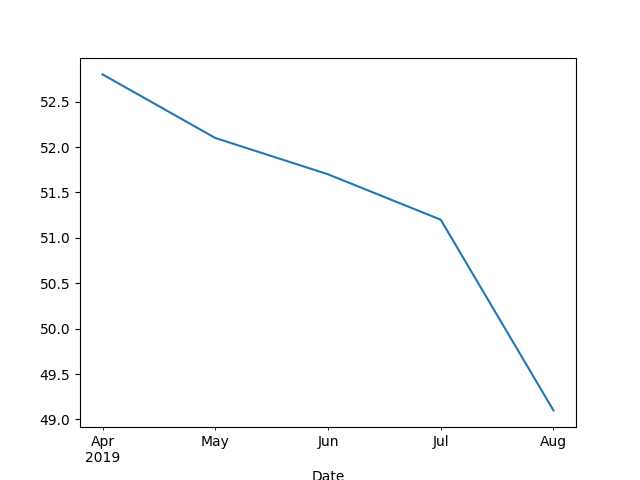
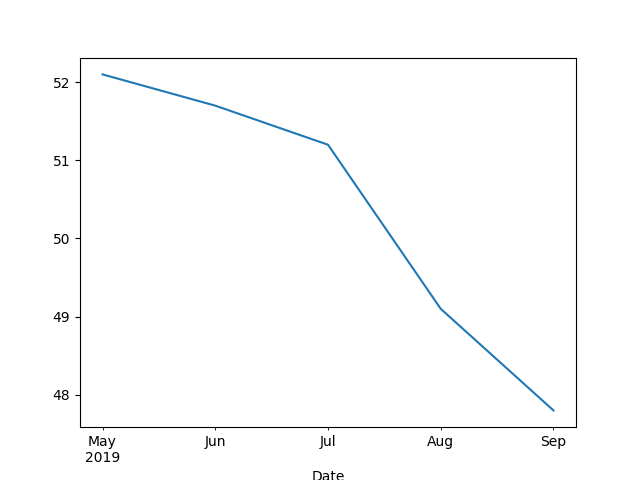
-

diff --git a/en/2019/05/stats.md b/en/2019/05/stats.md
@@ -183,8 +183,17 @@ df = quandl.get("ISM/MAN_PMI-PMI-Composite-Index",
                 end_date=today.strftime('%Y-%m-%d'),
                 authtoken=open(".quandl").read())
 
+print (df['PMI'].tail(3))
 df['PMI'].plot()
 plt.savefig('pmi.png')
+```
+
+```text
+Date
+2019-07-01    51.2
+2019-08-01    49.1
+2019-09-01    47.8
+Name: PMI, dtype: float64
 ```
 
 ![](pmi.png)
